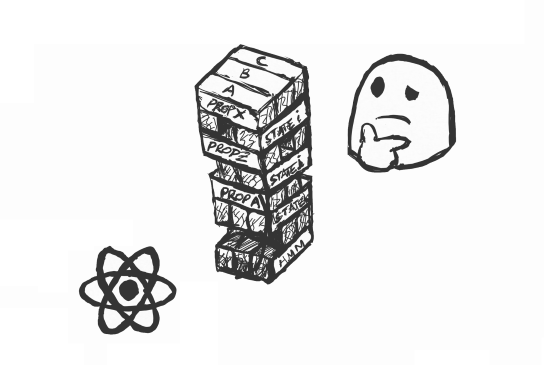
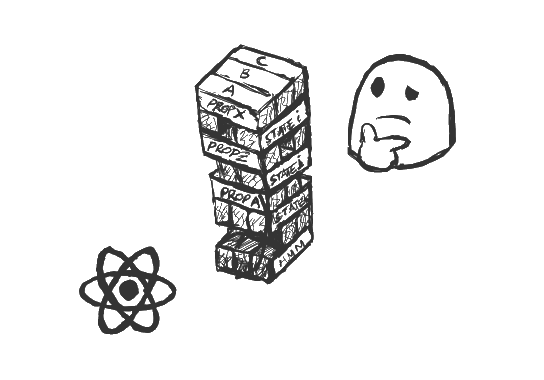
tweak PDF, transparent img, add missing dark projects style

diff --git a/client/js/modules/cv/components/PDFViewer.js b/client/js/modules/cv/components/PDFViewer.js
@@ -22,7 +22,11 @@ const useStyles = makeStyles(({ palette : {
         alignItems : 'center',
         justifyContent : 'center',
         paddingTop : '32px',
-        paddingBottom : '16px'
+        paddingBottom : '16px',
+        // use explicit black to get rid of the awkwardness,
+        // until there's time to convert CV to HTML and translate
+        // that to PDF vs vice versa
+        backgroundColor : (type == 'light') ? common.background1 : '#000'
     },
     pdfContent : {
         display : 'inline-block',
@@ -77,7 +81,7 @@ const useStyles = makeStyles(({ palette : {
         filter : ( l =>
             `hue-rotate(${l?0:195}deg) ` +
             `invert(${l?0:100}%) ` +
-            `saturate(${l?100:150}%) ` +
+            `saturate(${l?100:85}%) ` +
             `brightness(${l?100:85}%)`
         )(type == 'light'),
         transitionDelay : '3s'

diff --git a/client/js/modules/projects/components/ProjectDetails.js b/client/js/modules/projects/components/ProjectDetails.js
@@ -126,7 +126,8 @@ const useStyles = makeStyles(({ palette : { common, text, secondary } }) => ({
     },
     section : {
         margin : '16px 0px 32px',
-        color : text.primary
+        color : text.primary,
+        fill : text.primary
     },
     sectionHeader : {
         fontSize : '14pt',
